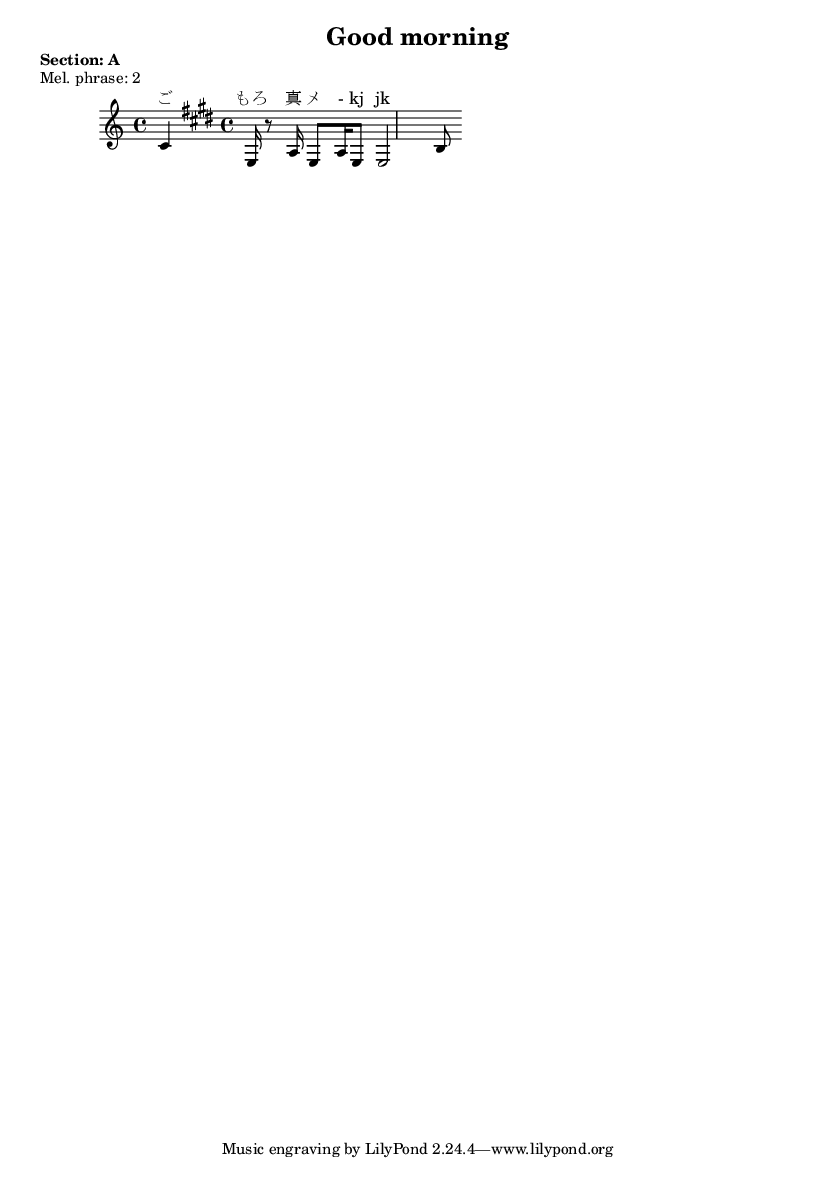
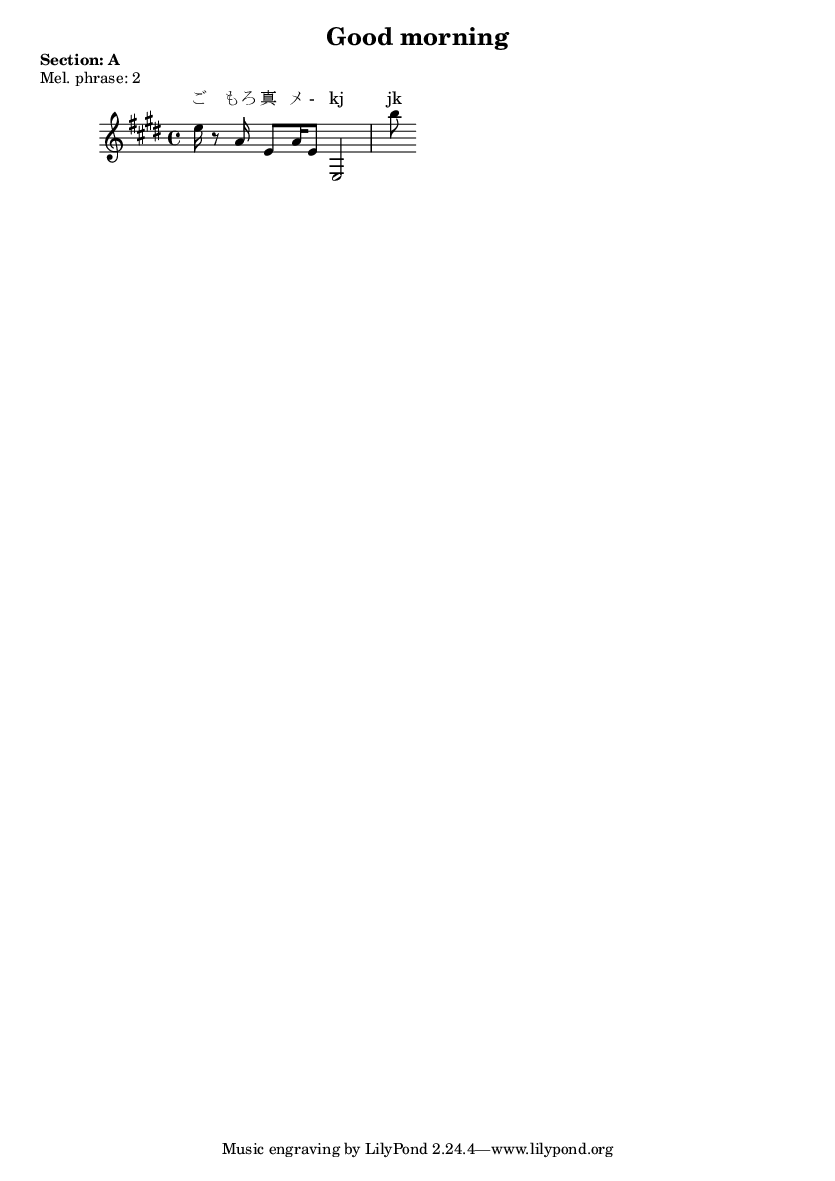
fixed octaves conversion

Changed region(s): [[0.1246, 0.061, 0.5605, 0.1524]]

diff --git a/xml_utils/xml_to_lilypond.py b/xml_utils/xml_to_lilypond.py
@@ -4,11 +4,15 @@ import re
 
 class XMLToLily:
     _OCTAVES = {
+        -4: ",,,,",
+        -3: ",,,",
         -2: ",,",
         -1: ",",
         0: "",
         1: "'",
-        2: "''"
+        2: "''",
+        3: "'''",
+        4: "''''"
     }
     
     def __init__(self, xml_file):
@@ -31,12 +35,12 @@ class XMLToLily:
                 pitch_o = pitch.lower() + acc
 
                 if prev_matched:
-                    prev_pitch, prev_octave, prev_accidentals = matched.groups()
-                    oct_ = XMLToLily._OCTAVES.get(int(octave) - int(prev_octave))
-                else:
-                    oct_ = ''
-
-                return pitch_o + XMLToLily._duration_formatter(raw_duration, rest=False) + oct_
+                    prev_pitch, prev_octave, prev_accidentals = prev_matched.groups()
+                    oct_diff = int(octave) - int(prev_octave)
+                    oct_ = XMLToLily._OCTAVES.get(oct_diff)
+                    if not oct_:
+                        oct_ = ''
+                return pitch_o  + XMLToLily._duration_formatter(raw_duration, rest=False) + oct_
             return ''
 
     @staticmethod
@@ -64,6 +68,7 @@ class XMLToLily:
     def _parse_xml_lex_phr(self, mel_phr):
         lex_notes, lyrics = [], []
         for lex_phr in mel_phr.findall('.//lexical_phrase'):
+            prev = 'c4'
             for child in lex_phr:
                 if child.tag == 'syllable':
     
@@ -82,15 +87,11 @@ class XMLToLily:
                     (dur.text for dur in child.findall('.//duration'))
                     ))
                     notes = []
-                    prev = 'c4'
                     for (p, d) in notes_raw:
                         notes.append(self._note_formatter(raw_pitch=p, raw_duration=d, prev_pitch=prev))
                         prev = p
                     lex_notes.append(''.join(notes))
 
-                    # lex_notes.append(' '.join(self._note_formatter(p, d) 
-                    #                     for (p, d) in notes_raw))  
-                    
                 elif child.tag == 'rest':
                     for duration in child.findall('.//duration'):
                         lex_notes.append(self._duration_formatter(duration.text))

diff --git a/ui/windows/main_window.py b/ui/windows/main_window.py
@@ -452,6 +452,7 @@ class MainWindowGen(QtWidgets.QMainWindow, Ui_MainWindow):
             tag_item.obj = value_item.obj = edited_node[0].obj
             value_item.edit_value()
         self._edit_mode = False
+        self._populated_and_changed = True
         self.overwriteBtn.setEnabled(True)
 
 
@@ -460,7 +461,6 @@ class MainWindowGen(QtWidgets.QMainWindow, Ui_MainWindow):
         from_file_str = self.doc.read_file(to_indent=indent) 
         meta, closing, from_scratch = self._handle_loaded_file_xml(from_file_str)
         new_xml_str = self._last_nodes[1].obj.write_xml(indent=indent)
-
         if from_scratch or self._populated_and_changed:
             xml_str = meta + new_xml_str + closing
         elif self._populated:
